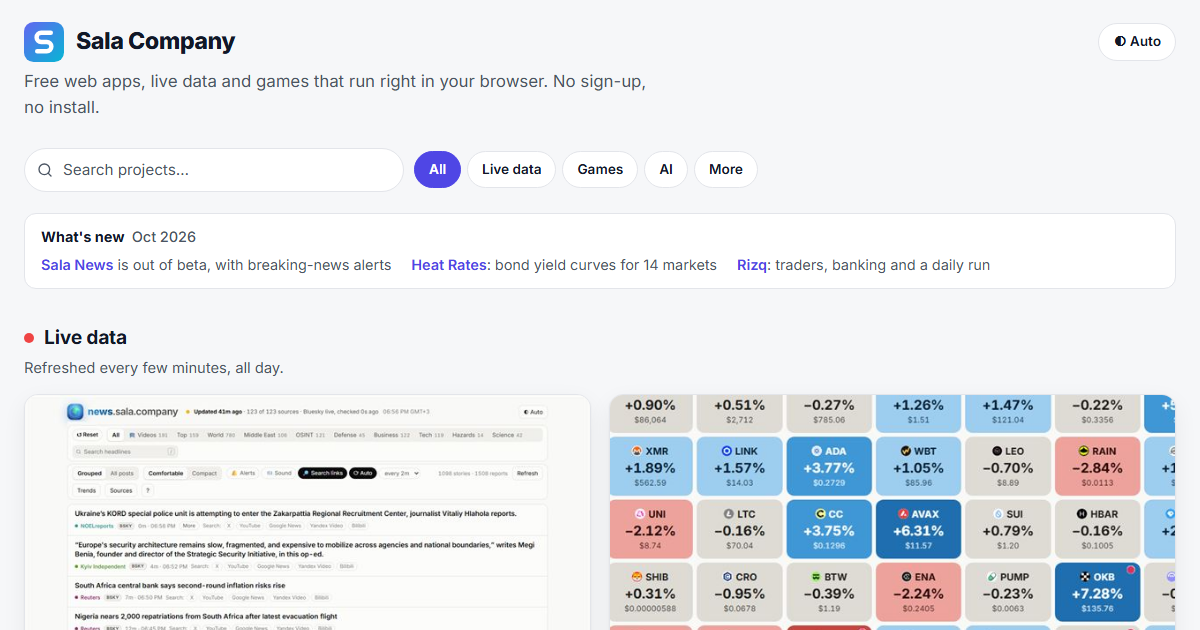
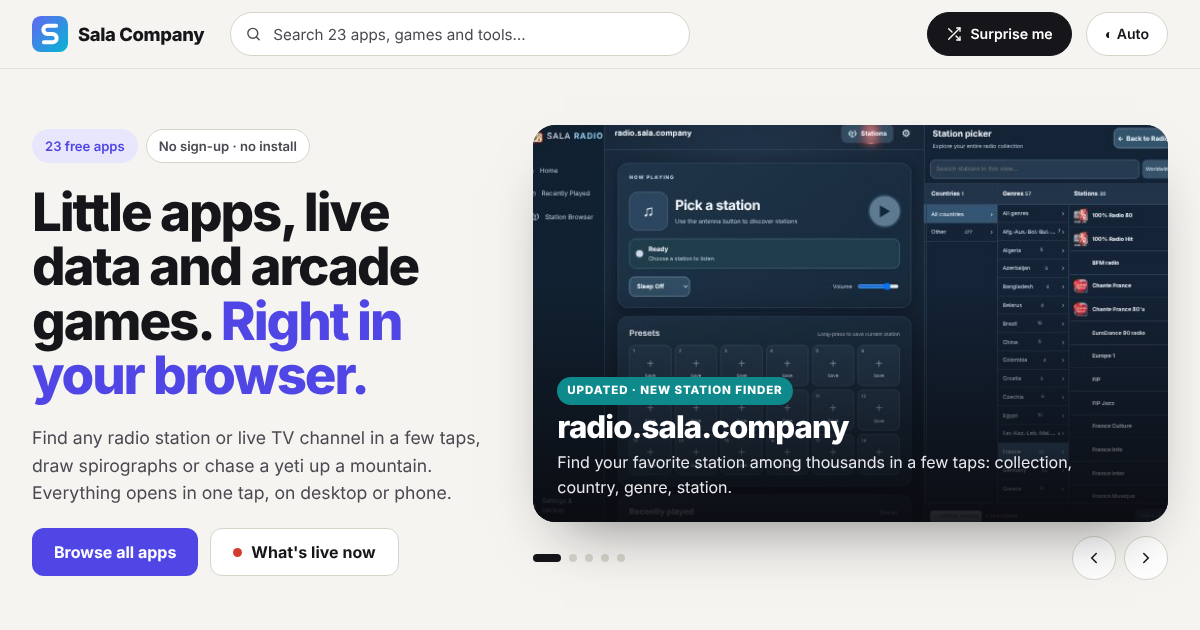
Feature the updated radio and video apps with new screenshots
Both apps were redesigned with a Finder-style channel picker, and video
can now AirPlay to an Apple TV and share channels as links.

- Carousel: radio.sala.company and video.sala.company are now slides 1
  and 2 ("New station finder", "AirPlay to Apple TV"); Artograph left it
- Cards: new 640x400 screenshots of each app's picker, new text, tags,
  alt text and search tags (finder, AirPlay, Apple TV, share)
- Hero line, Watch & listen blurb and About text no longer describe the
  old shortwave set and 70s wood-panel TV
- New FAQ: finding a channel among thousands and watching on Apple TV
- JSON-LD names and descriptions, dateModified and sitemap lastmod
- README: November "What's new" and updated Projects table rows
- og-image.png retaken from the current page top

Claude-Session: https://claude.ai/code/session_01Cjh7JMGsbreQCk3P2jASnC

diff --git a/index.html b/index.html
@@ -76,7 +76,7 @@
                 "isPartOf": { "@id": "https://go.sala.company/#website" },
                 "about": { "@id": "https://go.sala.company/#org" },
                 "primaryImageOfPage": "https://go.sala.company/og-image.png",
-                "dateModified": "2026-10-31",
+                "dateModified": "2026-11-10",
                 "mainEntity": { "@id": "https://go.sala.company/#projects" }
             },
             {
@@ -116,8 +116,8 @@
                     { "@type": "ListItem", "position": 21, "item": { "@type": "WebApplication", "name": "Harmony: local AI co-producer for Suno prompts", "url": "https://harmony.sala.company", "image": "https://go.sala.company/img/harmony.jpg", "description": "Turns a rough song idea into titles, genre tags, lyric skeletons and exclude lists for Suno's Custom Mode.", "applicationCategory": "MultimediaApplication", "operatingSystem": "Any (web browser)", "isAccessibleForFree": true, "offers": { "@type": "Offer", "price": "0", "priceCurrency": "USD" } } },
                     { "@type": "ListItem", "position": 22, "item": { "@type": "WebSite", "name": "How AI Works", "url": "https://understand.sala.company", "image": "https://go.sala.company/img/understand.jpg", "description": "Plain-language explanations of AI, from rule-based systems to neural networks and large language models." } },
                     { "@type": "ListItem", "position": 23, "item": { "@type": "WebSite", "name": "AI Tools Collection", "url": "https://ai.sala.company", "image": "https://go.sala.company/img/ai.jpg", "description": "A curated directory of AI websites and tools, sorted by what they do and whether they are free." } },
-                    { "@type": "ListItem", "position": 24, "item": { "@type": "WebApplication", "name": "radio.sala.company: free internet radio in a retro shortwave radio", "url": "https://radio.sala.company", "image": "https://go.sala.company/img/radio.jpg", "description": "Plays tens of thousands of free internet radio stations from Radio Browser, SomaFM and community M3U lists in a 10-band shortwave portable. Checks in your browser which stations are on air, shows the song or show that's playing, reconnects dropped streams on its own, and keeps favorites and the songs you heard in your browser.", "applicationCategory": "MultimediaApplication", "operatingSystem": "Any (web browser)", "isAccessibleForFree": true, "offers": { "@type": "Offer", "price": "0", "priceCurrency": "USD" } } },
-                    { "@type": "ListItem", "position": 25, "item": { "@type": "WebApplication", "name": "video.sala.company: free live TV in a retro TV set", "url": "https://video.sala.company", "image": "https://go.sala.company/img/video.jpg", "description": "Plays M3U and IPTV playlists, starting with about 11,000 free public channels from iptv-org, in a 70s wood-panel TV with an 80s cable guide. Signal bars warn which channels are slow or dead before you click, broken streams switch to a backup source on their own, and favorites, ratings and history stay in your browser.", "applicationCategory": "MultimediaApplication", "operatingSystem": "Any (web browser)", "isAccessibleForFree": true, "offers": { "@type": "Offer", "price": "0", "priceCurrency": "USD" } } },
+                    { "@type": "ListItem", "position": 24, "item": { "@type": "WebApplication", "name": "radio.sala.company: free internet radio with a fast station finder", "url": "https://radio.sala.company", "image": "https://go.sala.company/img/radio.jpg", "description": "Plays tens of thousands of free internet radio stations from Radio Browser, IPRD, SomaFM and community M3U lists. A Finder-style station picker narrows them by collection, country and genre so you reach any station in a few taps, or search worldwide by name. Checks which stations are on air, shows the song that is playing, reconnects dropped streams on its own, and keeps 18 presets, share links and the songs you heard in your browser.", "applicationCategory": "MultimediaApplication", "operatingSystem": "Any (web browser)", "isAccessibleForFree": true, "offers": { "@type": "Offer", "price": "0", "priceCurrency": "USD" } } },
+                    { "@type": "ListItem", "position": 25, "item": { "@type": "WebApplication", "name": "video.sala.company: free live TV you can send to your Apple TV", "url": "https://video.sala.company", "image": "https://go.sala.company/img/video.jpg", "description": "Plays M3U and IPTV playlists, starting with about 12,000 free public channels from iptv-org and Free-TV. A Finder-style channel picker narrows them by language, country and genre so you find a channel in a few taps. On iPhone, iPad and Mac Safari the AirPlay button sends a channel to an Apple TV, and any channel or playlist can be shared as a link or copied for VLC. Broken streams switch to a backup source on their own, and presets, ratings and history stay in your browser.", "applicationCategory": "MultimediaApplication", "operatingSystem": "Any (web browser)", "isAccessibleForFree": true, "offers": { "@type": "Offer", "price": "0", "priceCurrency": "USD" } } },
                     { "@type": "ListItem", "position": 26, "item": { "@type": "WebApplication", "name": "Artograph: a Spirograph in your browser", "url": "https://art.sala.company", "image": "https://go.sala.company/img/artograph.jpg", "description": "A gear-and-pen drawing toy in the spirit of the classic Spirograph: one-tap recipes, real ring and wheel tooth counts, pattern previews on every wheel, numbered pen holes, gel-pen colors, drag-to-crank drawing, rosettes, editable layers, gear clicks, PNG and SVG export and share links.", "applicationCategory": "DesignApplication", "operatingSystem": "Any (web browser)", "isAccessibleForFree": true, "offers": { "@type": "Offer", "price": "0", "priceCurrency": "USD" } } },
                     { "@type": "ListItem", "position": 27, "item": { "@type": "WebApplication", "name": "Secret Emoji Messenger", "url": "https://secret.sala.company", "image": "https://go.sala.company/img/secret.jpg", "description": "Hide secret text inside an emoji with Unicode steganography.", "applicationCategory": "UtilitiesApplication", "operatingSystem": "Any (web browser)", "isAccessibleForFree": true, "offers": { "@type": "Offer", "price": "0", "priceCurrency": "USD" } } },
                     { "@type": "ListItem", "position": 28, "item": { "@type": "WebApplication", "name": "iPod Classic Player", "url": "https://music.sala.company", "image": "https://go.sala.company/img/music.jpg", "description": "A browser-based iPod Classic MP3 player for your own music files.", "applicationCategory": "MultimediaApplication", "operatingSystem": "Any (web browser)", "isAccessibleForFree": true, "offers": { "@type": "Offer", "price": "0", "priceCurrency": "USD" } } },
@@ -523,7 +523,7 @@
                     <span class="pill">No sign-up · no install</span>
                 </div>
                 <h1 id="hero-title">Little apps, live data and arcade games. <em>Right in your browser.</em></h1>
-                <p class="lede">Tune a shortwave radio, watch live TV in a 70s set, draw spirographs or chase a yeti up a mountain. Everything opens in one tap, on desktop or phone.</p>
+                <p class="lede">Find any radio station or live TV channel in a few taps, draw spirographs or chase a yeti up a mountain. Everything opens in one tap, on desktop or phone.</p>
                 <div class="cta">
                     <a class="primary" href="#apps">Browse all apps</a>
                     <a class="secondary" href="#live"><span class="pulse" aria-hidden="true"></span>What's live now</a>
@@ -533,15 +533,31 @@
             <!-- Featured: pick 3–5 projects. Each slide is a plain link, so the first one shows without JavaScript -->
             <div class="carousel" aria-roledescription="carousel" aria-label="Featured apps">
                 <div class="slides" id="slides">
-                    <a class="slide on" href="https://flattery.sala.company" style="--k: var(--c-live)" aria-roledescription="slide" aria-label="1 of 5: Flattery">
-                        <img src="img/flattery.jpg" width="640" height="400" alt="Flattery: an app store of software clones, each with a crowd rating" fetchpriority="high">
+                    <a class="slide on" href="https://radio.sala.company" style="--k: var(--c-watch)" aria-roledescription="slide" aria-label="1 of 5: radio.sala.company">
+                        <img src="img/radio.jpg" width="640" height="400" alt="radio.sala.company: the player and presets beside the new station picker, narrowed to France and listing its stations with their logos" fetchpriority="high">
+                        <span class="slide-text">
+                            <span class="kicker">Updated · New station finder</span>
+                            <span class="slide-name">radio.sala.company</span>
+                            <span class="slide-pitch">Find your favorite station among thousands in a few taps: collection, country, genre, station.</span>
+                        </span>
+                    </a>
+                    <a class="slide" href="https://video.sala.company" style="--k: var(--c-watch)" aria-roledescription="slide" aria-label="2 of 5: video.sala.company">
+                        <img src="img/video.jpg" width="640" height="400" alt="video.sala.company: a TV showing color bars beside the new channel picker, narrowed to Arabic channels from Kuwait" loading="lazy">
+                        <span class="slide-text">
+                            <span class="kicker">Updated · AirPlay to Apple TV</span>
+                            <span class="slide-name">video.sala.company</span>
+                            <span class="slide-pitch">Find any of 12,000 live channels by language, country and genre, then send it to your Apple TV.</span>
+                        </span>
+                    </a>
+                    <a class="slide" href="https://flattery.sala.company" style="--k: var(--c-live)" aria-roledescription="slide" aria-label="3 of 5: Flattery">
+                        <img src="img/flattery.jpg" width="640" height="400" alt="Flattery: an app store of software clones, each with a crowd rating" loading="lazy">
                         <span class="slide-text">
                             <span class="kicker">New · Updated every 8 hours</span>
                             <span class="slide-name">Flattery</span>
                             <span class="slide-pitch">Free clones of the apps you pay for, found on X and rated by the crowd and GitHub.</span>
                         </span>
                     </a>
-                    <a class="slide" href="https://how.sala.company" style="--k: var(--c-ai)" aria-roledescription="slide" aria-label="2 of 5: How">
+                    <a class="slide" href="https://how.sala.company" style="--k: var(--c-ai)" aria-roledescription="slide" aria-label="4 of 5: How">
                         <img src="img/how.jpg" width="640" height="400" alt="How: a pair of scissors drawn on cream paper with its parts numbered 1, 2 and 3" loading="lazy">
                         <span class="slide-text">
                             <span class="kicker">New · AI</span>
@@ -549,28 +565,12 @@
                             <span class="slide-pitch">Type any thing and get an exploded view with every part numbered, in 17 languages.</span>
                         </span>
                     </a>
-                    <a class="slide" href="https://yeti.sala.company" style="--k: var(--c-games)" aria-roledescription="slide" aria-label="3 of 5: Yeti">
+                    <a class="slide" href="https://yeti.sala.company" style="--k: var(--c-games)" aria-roledescription="slide" aria-label="5 of 5: Yeti">
                         <img src="img/yeti.jpg" width="640" height="400" alt="Yeti: a penguin jumps a snowball on icy ledges while a yeti throws snowballs from the top" loading="lazy">
                         <span class="slide-text">
                             <span class="kicker">New game</span>
                             <span class="slide-name">Yeti</span>
                             <span class="slide-pitch">Help a penguin up the icy ledges, jump the snowballs and pull the bolts holding up the peak.</span>
-                        </span>
-                    </a>
-                    <a class="slide" href="https://radio.sala.company" style="--k: var(--c-watch)" aria-roledescription="slide" aria-label="4 of 5: radio.sala.company">
-                        <img src="img/radio.jpg" width="640" height="400" alt="radio.sala.company: a black shortwave portable with a lit tuning dial beside a station guide" loading="lazy">
-                        <span class="slide-text">
-                            <span class="kicker">Listen</span>
-                            <span class="slide-name">radio.sala.company</span>
-                            <span class="slide-pitch">Tens of thousands of stations in a 10-band shortwave portable, with the song that's playing.</span>
-                        </span>
-                    </a>
-                    <a class="slide" href="https://art.sala.company" style="--k: var(--c-create)" aria-roledescription="slide" aria-label="5 of 5: Artograph">
-                        <img src="img/artograph.jpg" width="640" height="400" alt="Artograph: a spirograph pattern of teal, violet and coral loops" loading="lazy">
-                        <span class="slide-text">
-                            <span class="kicker">Create</span>
-                            <span class="slide-name">Artograph</span>
-                            <span class="slide-pitch">Pick a ring, a wheel and a pen hole and watch it roll. Gel pens, rosettes and one-tap recipes.</span>
                         </span>
                     </a>
                 </div>
@@ -844,26 +844,26 @@
             <section class="group" id="watch" data-cat="watch" aria-labelledby="watch-title">
                 <div class="group-head">
                     <h2 id="watch-title">Watch &amp; listen</h2>
-                    <p>Radio, TV and music in retro sets.</p>
+                    <p>Radio, live TV and a retro iPod.</p>
                 </div>
                 <ul class="grid">
-                    <li class="item" data-added="2026-10-16" data-tags="radio internet radio online radio stations stream streaming player shortwave fm am retro vintage music news talk jazz classical rock pop electronic somafm radio browser m3u pls icecast shoutcast songs now playing favorites sleep timer free">
+                    <li class="item" data-added="2026-10-16" data-tags="radio internet radio online radio stations stream streaming player station finder station picker browse by country genre fm am music news talk jazz classical rock pop electronic somafm radio browser iprd m3u pls icecast shoutcast songs now playing presets favorites share sleep timer free">
                         <article class="card">
-                            <div class="shot-wrap"><img class="shot" src="img/radio.jpg" width="640" height="400" alt="radio.sala.company: a black 10-band shortwave portable with a lit tuning dial, rotary BAND, TUNING and VOLUME knobs and slide switches, beside a station guide whose working stations are marked On air" loading="lazy"></div>
+                            <div class="shot-wrap"><img class="shot" src="img/radio.jpg" width="640" height="400" alt="radio.sala.company: the player and 18 presets beside the new station picker, with columns for countries, genres and stations, narrowed to France and listing its stations with their logos" loading="lazy"></div>
                             <div class="card-body">
                                 <div class="card-title-row"><h3><a href="https://radio.sala.company">radio.sala.company</a></h3></div>
-                                <p>Free internet radio in a retro shortwave set, with the song that's playing.</p>
-                                <ul class="tags"><li>Phone</li><li>Favorites</li></ul>
+                                <p>Free internet radio with a new finder: reach your station among thousands in a few taps.</p>
+                                <ul class="tags"><li>Station finder</li><li>Presets</li></ul>
                             </div>
                         </article>
                     </li>
-                    <li class="item" data-added="2026-10-16" data-tags="m3u tv video live tv television channels iptv iptv-org playlist m3u8 hls stream streaming player retro cable guide wood vintage news sports movies music kids favorites free">
+                    <li class="item" data-added="2026-10-16" data-tags="m3u tv video live tv television channels iptv iptv-org free-tv playlist m3u8 hls stream streaming player channel finder channel picker browse by language country genre airplay apple tv cast send share link vlc retro news sports movies music kids presets favorites free">
                         <article class="card">
-                            <div class="shot-wrap"><img class="shot" src="img/video.jpg" width="640" height="400" alt="video.sala.company: a 70s wood-panel TV showing color bars and a VCR-style status display, beside a blue cable TV guide of numbered channels with signal bars" loading="lazy"></div>
+                            <div class="shot-wrap"><img class="shot" src="img/video.jpg" width="640" height="400" alt="video.sala.company: a TV showing color bars beside the new channel picker, with columns for countries, genres and channels, narrowed to Arabic channels from Kuwait" loading="lazy"></div>
                             <div class="card-body">
                                 <div class="card-title-row"><h3><a href="https://video.sala.company">video.sala.company</a></h3></div>
-                                <p>About 11,000 free live TV channels in a 70s wood-panel TV.</p>
-                                <ul class="tags"><li>Your M3U</li><li>Favorites</li></ul>
+                                <p>12,000 free live TV channels, found in a few taps and sent to your Apple TV.</p>
+                                <ul class="tags"><li>AirPlay</li><li>Channel finder</li></ul>
                             </div>
                         </article>
                     </li>
@@ -939,7 +939,7 @@
             <!-- ── About / FAQ: plain text for readers and search engines ── -->
             <section class="about" id="about" aria-labelledby="about-title">
                 <h2 id="about-title">About Sala Company</h2>
-                <p>Sala Company makes free web apps that run right in your browser: a live world news feed, market heatmaps for crypto, currencies, metals, energy, US stock ETFs and government bonds, browser games from vibe coded arcade classics to Rizq, a roguelike set in Kuwait, a private AI chat that runs on your own device, How, a picture book that draws how any thing works, Scene to Story, which writes a story from a one-minute video, Artograph, a Spirograph drawing toy, video.sala.company, free live TV channels in a retro TV set, and radio.sala.company, free internet radio in a retro shortwave radio. Nothing to install, and no account to create (except How and Scene to Story, which use your own OpenRouter account for the AI). Almost everything here was vibe coded from the start: built by describing it to an AI and refining it together, rather than written line by line.</p>
+                <p>Sala Company makes free web apps that run right in your browser: a live world news feed, market heatmaps for crypto, currencies, metals, energy, US stock ETFs and government bonds, browser games from vibe coded arcade classics to Rizq, a roguelike set in Kuwait, a private AI chat that runs on your own device, How, a picture book that draws how any thing works, Scene to Story, which writes a story from a one-minute video, Artograph, a Spirograph drawing toy, video.sala.company, about 12,000 free live TV channels you can send to an Apple TV, and radio.sala.company, free internet radio with a finder that reaches any of thousands of stations in a few taps. Nothing to install, and no account to create (except How and Scene to Story, which use your own OpenRouter account for the AI). Almost everything here was vibe coded from the start: built by describing it to an AI and refining it together, rather than written line by line.</p>
 
                 <h3>Is everything free?</h3>
                 <p>Yes. Every game and tool here is free to use in any modern browser, on desktop or phone. Only the <a href="https://www.sala.company">store</a> sells anything. The one exception is the AI behind <a href="https://how.sala.company">How</a> and <a href="https://story.sala.company">Scene to Story</a>, which you pay for through your own OpenRouter account, usually a few cents a page or a story. Sala Company charges nothing for it, and every answer already in How's gallery opens free.</p>
@@ -958,6 +958,8 @@
 
                 <h3>How can an AI chat run privately in the browser?</h3>
                 <p><a href="https://webai.sala.company">WebAI</a> downloads an open model such as Llama, Qwen or Gemma once and runs it on your own graphics chip through WebGPU. Your messages are processed on your device and never sent to a server.</p>
+                <h3>How do I find a channel among thousands, and watch it on my Apple TV?</h3>
+                <p><a href="https://video.sala.company">video.sala.company</a> and <a href="https://radio.sala.company">radio.sala.company</a> have a Finder-style picker: choose a language, a country and a genre, and the list shrinks to a handful of channels or stations, or type in the search box. On an iPhone, iPad or Mac in Safari, video's AirPlay button sends the channel to your Apple TV, which streams it by itself so you can lock your phone. You can also share a channel list as a link, or copy a channel's link to play it in VLC.</p>
             </section>
         </main>
 

diff --git a/README.md b/README.md
@@ -6,10 +6,12 @@ The start page for all of Sala Company's browser projects: live world news, mark
 
 [![The go.sala.company start page](og-image.png)](https://go.sala.company)
 
-## What's new — October 2026
+## What's new — November 2026
 
 Keep this list to the last month or so. On the page, the **Just added** row and the **New** badges come from each card's `data-added` date on their own, so there is nothing to update there by hand.
 
+- **radio.sala.company, updated:** a new Finder-style station picker. Collections → Countries → Genres → Stations, so you reach your favorite among thousands in a few taps, or search all of Radio Browser by name. Favorites became 18 presets, and presets or a whole list can be shared as a link. Now featured first in the carousel.
+- **video.sala.company, updated:** the same kind of picker for about 12,000 channels from iptv-org and Free-TV, narrowed by language, country and genre. On iPhone, iPad and Mac Safari the AirPlay button sends a channel to an Apple TV; channels and playlists can also be shared as a link or copied for VLC. Featured second in the carousel (Artograph left it).
 - **Flattery:** an app store of free clones of the apps you pay for (reverse-engineered, reimagined, white-room and vibe-coded copies), found on X and Hacker News every 8 hours and rated by the crowd: ❤ Loved, ⭐ Proven on GitHub, 🔥 Hyped, 😐 Mixed, 🆕 New and ☠ Don't touch. Each app shows what it clones, how it compares with the original, whether you can install it, and a weekly newsletter; anyone can suggest or object to a listing on X.
 - **Sand Digger:** a desert take on the arcade digging classic. A Bedouin kid tunnels through realistic sand layers, slings pebbles at uromastyx lizards (three hits knock one out), dodges cobras that spit venom through the sand, and drops clay pots on them; a golden dallah bonus, the last enemy running for the exit, an original Hijaz-scale tune, and keyboard and touch controls.
 - **Yeti:** an arcade climbing game: a penguin climbs icy ledges to rescue a chick from a snowball-throwing yeti. Four stages (sloped ice ledges with rolling snowballs, a frozen fish factory with conveyor belts, ski lifts with bouncing iceballs, and an ice-bolt peak you bring down by pulling 8 bolts), angry seals, a snow shovel power-up, shaded hi-res art, and keyboard, gamepad and touch controls.
@@ -65,8 +67,8 @@ In the order the page shows them, most active first.
 
 | | Project | What it is | Code |
 |---|---|---|---|
-| <img src="img/radio.jpg" width="160" alt=""> | <img src="img/radio-icon.svg" width="20" alt=""> **[radio.sala.company](https://radio.sala.company)** | Free internet radio in a 10-band shortwave portable. Starts with Radio Browser's most-voted stations; search all of Radio Browser (about 50,000 stations), browse Near me, Trending, News, Jazz and other genres, or add SomaFM, junguler's genre M3U lists or your own playlist. Each station is checked in the browser and marked On air, Weak, Off air or Blocked before you click, dropped streams reconnect on their own, and backup links take over when one fails. The dial shows the song or show that's playing (also on the phone lock screen), with a log of songs you heard and links to find them. BAND switches your lists, TUNING moves through stations, plus pause, mute, back-to-live, a sleep timer, favorites and keyboard controls, all kept in your browser. | [radio](https://github.com/jamalxcode/radio) |
-| <img src="img/video.jpg" width="160" alt=""> | <img src="img/video-icon.svg" width="20" alt=""> **[video.sala.company](https://video.sala.company)** | Free live TV channels in a 70s wood-panel TV next to an 80s cable TV guide. Starts with about 11,000 public channels from iptv-org (filter by country and category, or add a single country's list), or load your own M3U playlist. Signal bars warn which channels are slow, offline or blocked in the browser before you click, GEO and PART-TIME tags flag geo-blocked and part-time channels, and a broken stream switches to a backup source on its own. A VCR-style display shows status, picture quality and how much video is loaded ahead. Channel numbers, a dial, keyboard and TV-remote controls, favorites, ratings and recently watched, all kept in your browser. | [video](https://github.com/jamalxcode/video) |
+| <img src="img/radio.jpg" width="160" alt=""> | <img src="img/radio-icon.svg" width="20" alt=""> **[radio.sala.company](https://radio.sala.company)** | Free internet radio with a Finder-style station picker: Collections → Countries → Genres → Stations, so you reach your favorite among thousands in a few taps, or search all of Radio Browser (about 50,000 stations) by name. Starts with Radio Browser's most-voted stations; add IPRD, SomaFM, curated M3U collections or your own playlist. Stations are checked in the browser before you click, dropped streams reconnect on their own, and backup links take over when one fails. Shows the song or show that's playing (also on the phone lock screen), with a log of songs you heard. 18 presets, share links, a sleep timer and keyboard controls, all kept in your browser. | [radio](https://github.com/jamalxcode/radio) |
+| <img src="img/video.jpg" width="160" alt=""> | <img src="img/video-icon.svg" width="20" alt=""> **[video.sala.company](https://video.sala.company)** | Free live TV with a Finder-style channel picker: Collections → Languages → Countries → Genres → Channels, so you find a channel among about 12,000 (iptv-org plus Free-TV) in a few taps, or load your own M3U playlist. On iPhone, iPad and Mac Safari the AirPlay button sends the channel to an Apple TV, and any playlist or your presets can be shared as a link, or a channel copied for VLC. Channels are checked in the browser before you click (✓ working, ! slow, × unavailable), GEO and PART-TIME tags flag geo-blocked and part-time channels, and a broken stream switches to a backup source on its own. 18 presets, ratings, recently watched, a sleep timer and keyboard and TV-remote controls, all kept in your browser. | [video](https://github.com/jamalxcode/video) |
 | <img src="img/music.jpg" width="160" alt=""> | **[iPod Classic Player](https://music.sala.company)** | A faithful iPod Classic in the browser for your own MP3s. | [retro-tunes-player](https://github.com/jamalxcode/retro-tunes-player) |
 
 ### 🩷 Create
